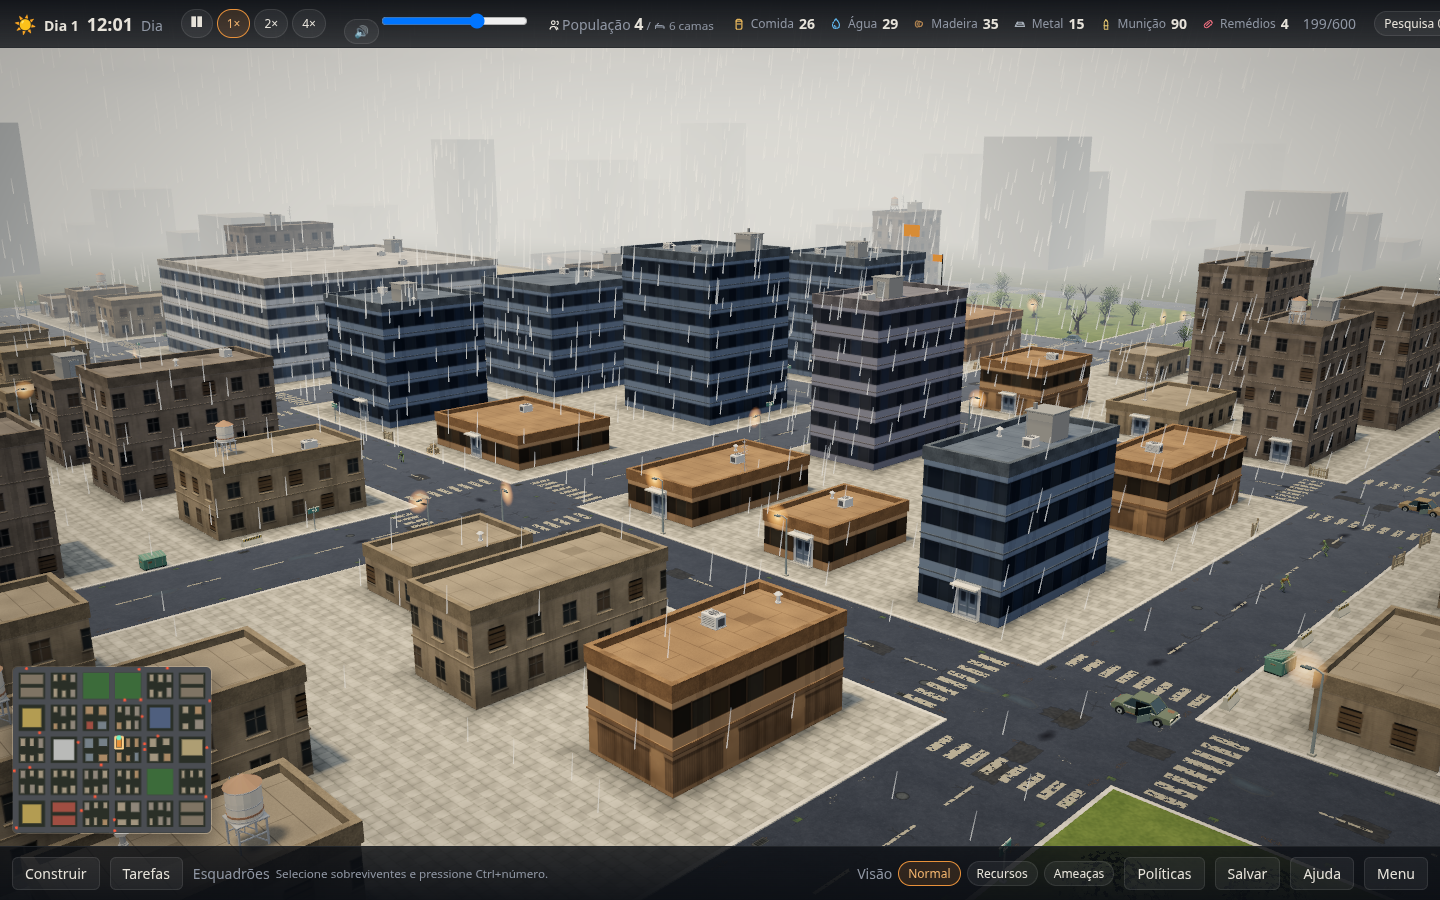
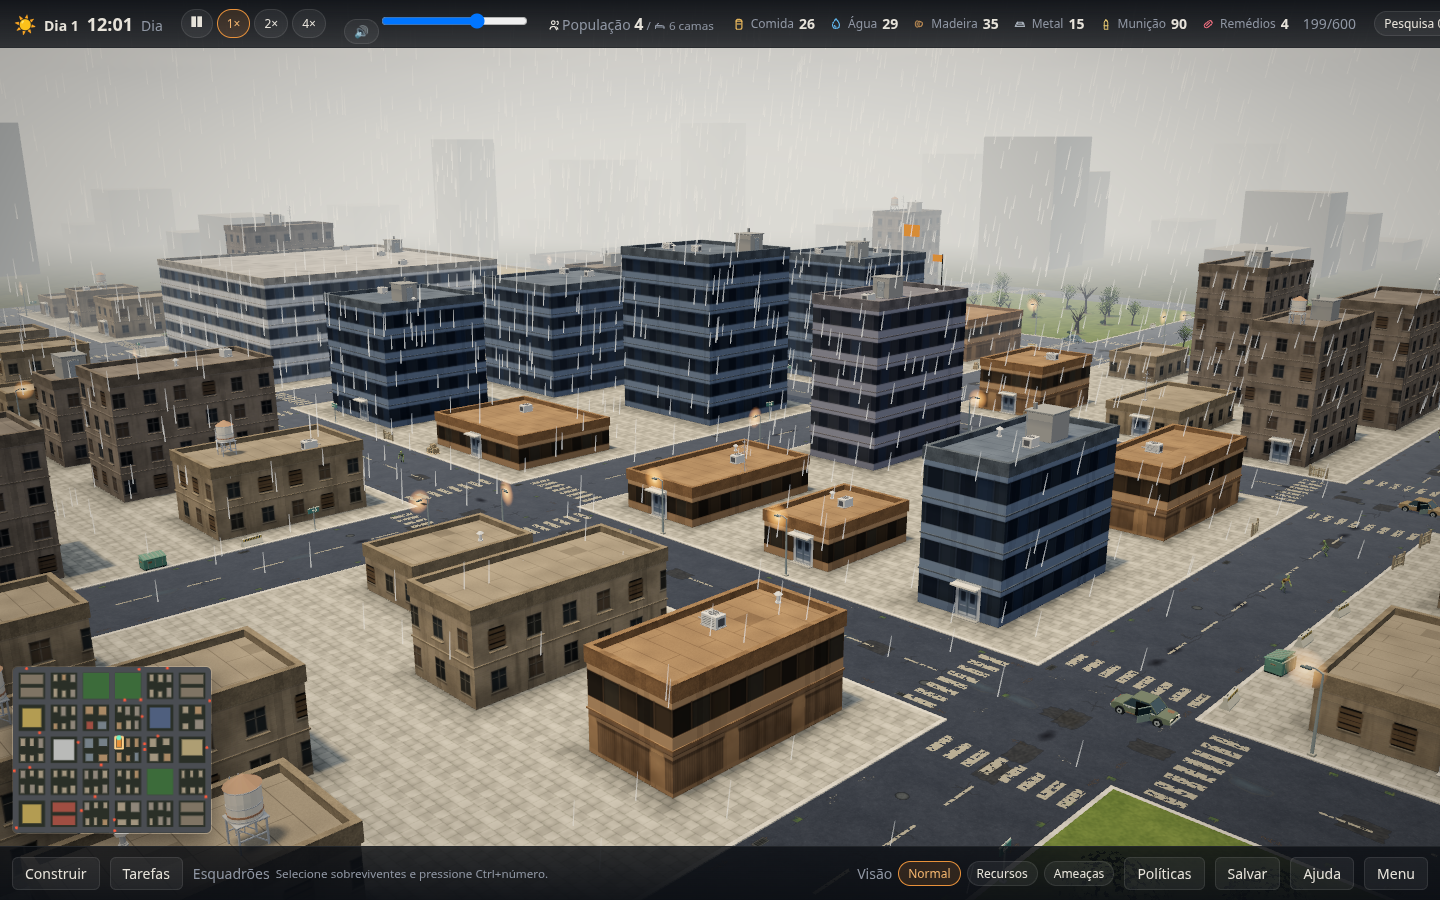
[IMP] renderer: the sky is not drawn when the camera cannot see it
Measured per feature under SwiftShader, warmed up and alternated: contact
shadows cost nothing measurable, the outskirts about 4% of a frame and the
sky about 5%, most of the earlier 15% being the machine's own variance. At
the default pitch the camera only sees ground, so the dome is now hidden
unless the top of the view clears the horizon (skyInView, unit-tested).

diff --git a/packages/renderer/src/GameRenderer.ts b/packages/renderer/src/GameRenderer.ts
@@ -14,7 +14,7 @@ import { loadProps, placeProps, placeRoofProps, type PropKind, type PropPlacemen
 import { Vegetation } from "./vegetation";
 import { Doors } from "./doors";
 import { buildContactShadows } from "./contact";
-import { SkyDome, buildOutskirts, placeOutskirts, skyColors } from "./sky";
+import { SkyDome, buildOutskirts, placeOutskirts, skyColors, skyInView } from "./sky";
 import { Rain, WEATHER, easeWeather, weatherFor, type WeatherKind, type WeatherState } from "./weather";
 import { CharacterBatch, CharacterMotion } from "./characters";
 import { structureMaterial } from "./structureMaterial";
@@ -1060,7 +1060,10 @@ export class GameRenderer {
     const sky = this.skyColor.setRGB(colors.horizon[0], colors.horizon[1], colors.horizon[2]);
     this.scene.background = sky;
     this.sunDir.copy(this.sun.position).sub(tgt).normalize();
-    this.skyDome.update(this.rts.camera.position, colors, this.sunDir, this.sun.color, daylight, w.cloud, this.time);
+    this.skyDome.mesh.visible = skyInView(this.rts.pitch, THREE.MathUtils.degToRad(this.rts.camera.fov));
+    if (this.skyDome.mesh.visible) {
+      this.skyDome.update(this.rts.camera.position, colors, this.sunDir, this.sun.color, daylight, w.cloud, this.time);
+    }
     this.rain?.update(this.time, tgt, w.rain, lerp(0.35, 1, daylight));
     // Rain leaves the asphalt wet: smoother, so it takes a sheen from the sky.
     const roads = this.groundMats?.roads;

diff --git a/packages/renderer/tests/sky.test.ts b/packages/renderer/tests/sky.test.ts
@@ -1,6 +1,6 @@
 import { describe, expect, it } from "vitest";
 import type { CityMap } from "@afterfall/world";
-import { OUTSKIRTS_FAR, OUTSKIRTS_NEAR, placeOutskirts, skyColors } from "../src/sky";
+import { OUTSKIRTS_FAR, OUTSKIRTS_NEAR, placeOutskirts, skyColors, skyInView } from "../src/sky";
 import { WEATHER, easeWeather, weatherFor } from "../src/weather";
 
 function city(): CityMap {
@@ -45,6 +45,13 @@ describe("sky", () => {
     expect(warmth(skyColors(0.5, 1, 0))).toBeGreaterThan(0.2);
     expect(warmth(skyColors(1, 1, 0))).toBeLessThan(0);
     expect(warmth(skyColors(0, 1, 0))).toBeLessThan(0);
+  });
+
+  it("is drawn only when the camera tilts low enough to see it", () => {
+    const fov = (42 * Math.PI) / 180;
+    expect(skyInView(0.92, fov)).toBe(false);
+    expect(skyInView(0.45, fov)).toBe(false);
+    expect(skyInView(0.26, fov)).toBe(true);
   });
 
   it("goes grey under cloud", () => {

diff --git a/packages/renderer/src/sky.ts b/packages/renderer/src/sky.ts
@@ -34,6 +34,16 @@ export function skyColors(daylight: number, dusk: number, cloud: number): { zeni
 }
 
 /**
+ * Whether any sky is in frame: the top of the view has to clear the horizon.
+ * `pitch` is the camera's angle below the horizontal and `fov` its vertical
+ * field of view, both in radians. At the default pitch the camera only sees
+ * ground, and the dome is not drawn at all.
+ */
+export function skyInView(pitch: number, fov: number): boolean {
+  return pitch - fov / 2 < 0.06;
+}
+
+/**
  * A dome that follows the camera: gradient, sun or moon with a glow, drifting
  * clouds and stars. It sits on the far plane and is drawn after everything
  * opaque, so its shader only runs on the pixels the city leaves uncovered:
